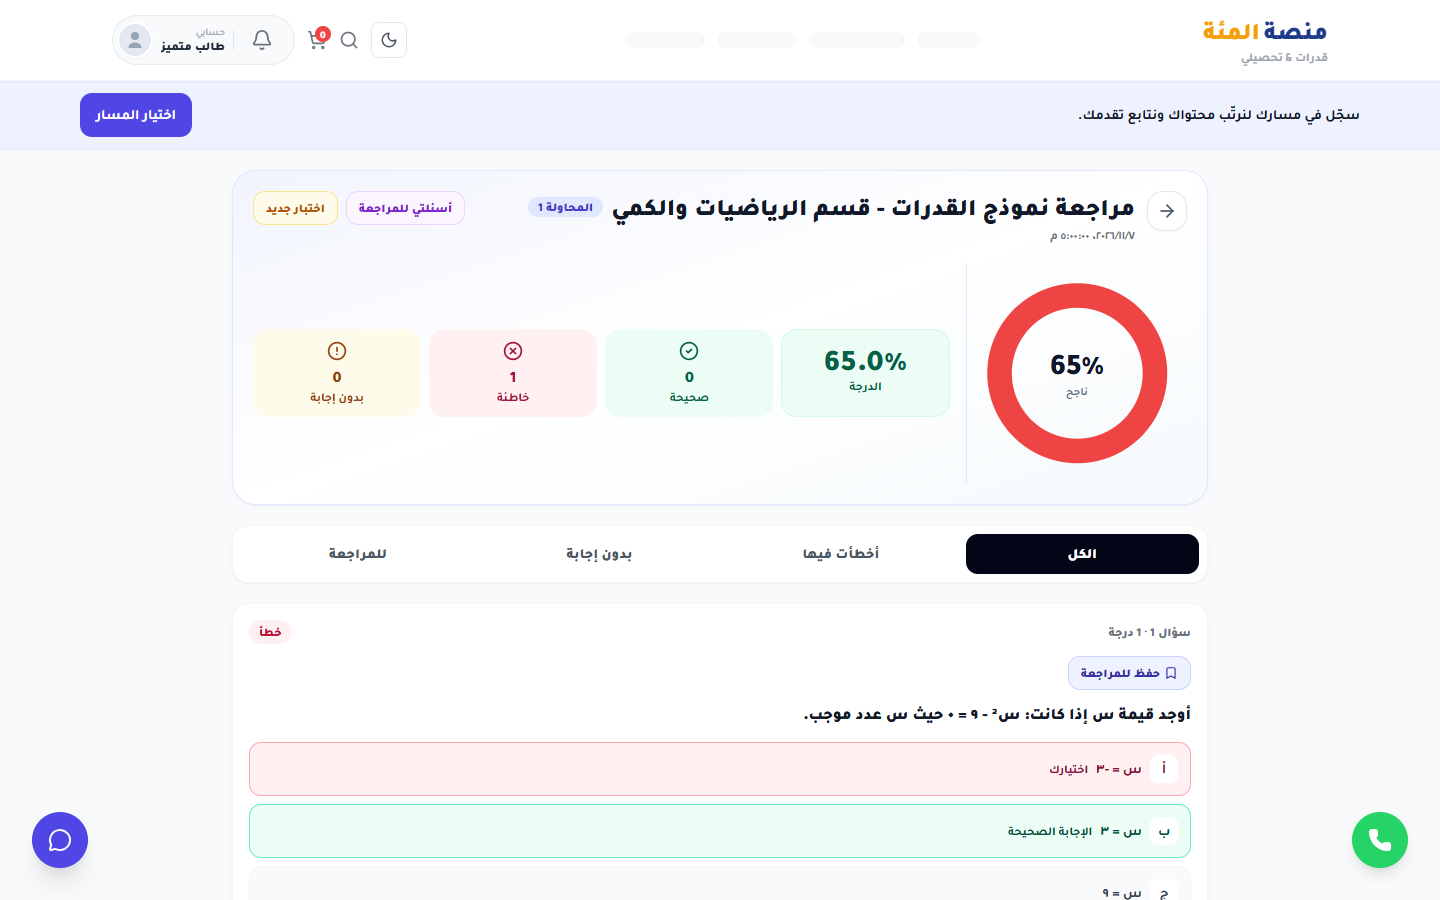
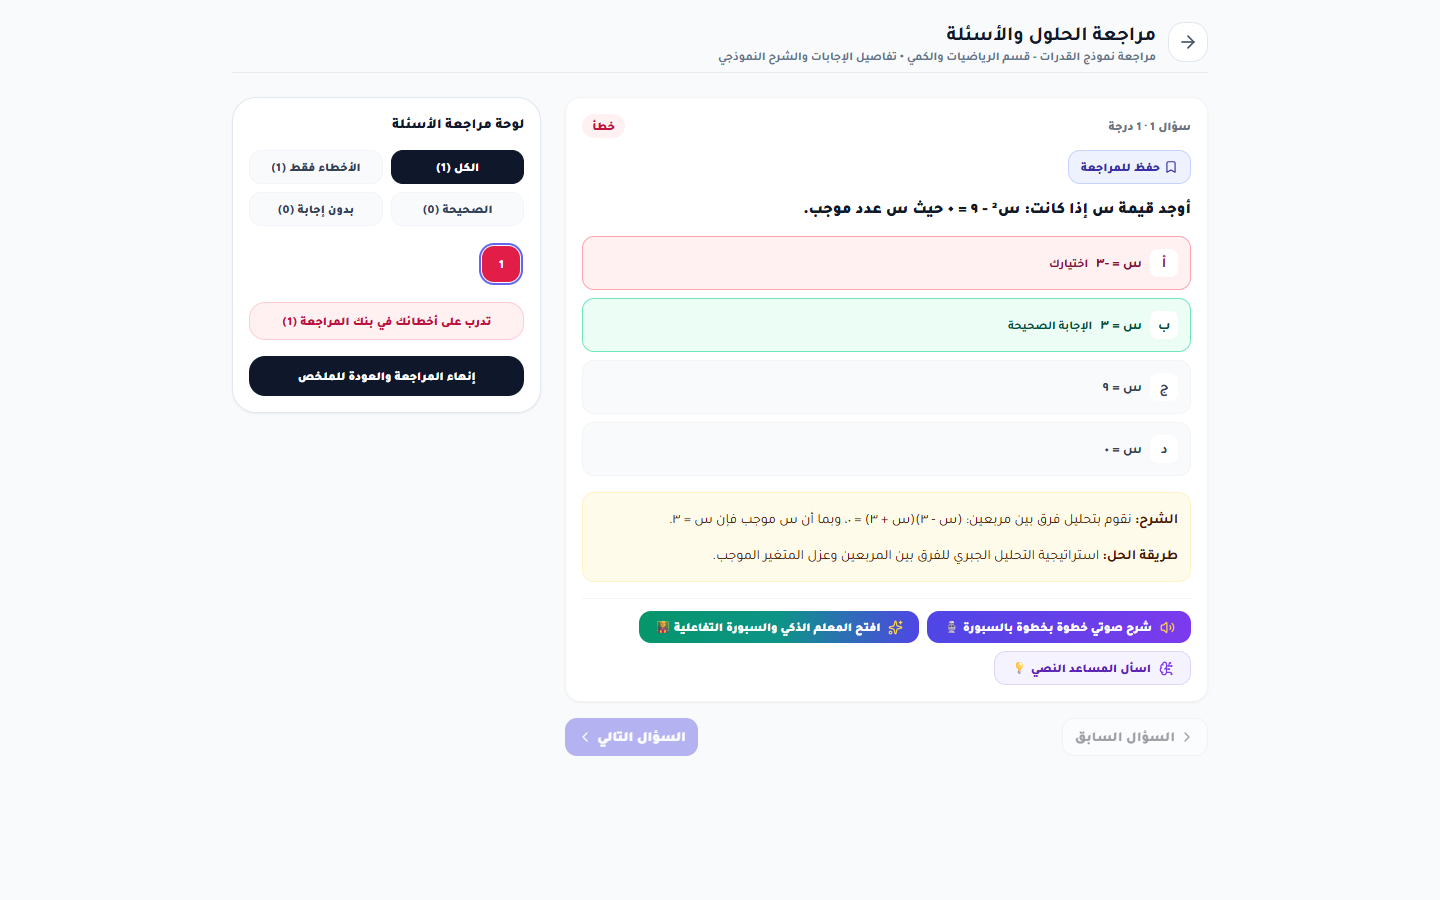
fix(assessment): preserve review heading semantics and advance global release sweep to review board

diff --git a/apps/web/src/features/assessment/pages/AssessmentResultsPage.tsx b/apps/web/src/features/assessment/pages/AssessmentResultsPage.tsx
@@ -566,7 +566,9 @@ export function AssessmentResultsPage({ embedded, resultAttemptId, hideReturnLin
       )}
       <div>
         <h1 className="text-xl font-bold">{reviewOpen && detail.showResultsReport ? 'مراجعة الحلول والأسئلة' : 'نتيجة الاختبار'}</h1>
-        {reviewOpen && detail.showResultsReport && <p className="text-xs font-bold text-slate-500">{detail.title} • تفاصيل الإجابات والشرح النموذجي</p>}
+        {reviewOpen && detail.showResultsReport && (
+          <h2 className="text-xs font-bold text-slate-500">{detail.title} • تفاصيل الإجابات والشرح النموذجي</h2>
+        )}
       </div>
       {returnTo && !hideReturnLink && <Link to={returnTo} className="rounded-xl border border-emerald-100 bg-emerald-50 px-3 py-2 text-xs font-black text-emerald-700">{returnPathLabel(returnTo)}</Link>}
     </div>

diff --git a/apps/web/tests/e2e/global-release-sweep.spec.ts b/apps/web/tests/e2e/global-release-sweep.spec.ts
@@ -74,6 +74,7 @@ test('student golden journey crosses content assessment result review remediatio
  await expect.poll(()=>submitCalls).toBe(1);
 
  await page.goto('/assessment-results/attempt-1');
+ await page.getByRole('button', { name: /^مراجعة الأسئلة/ }).click();
  await expect(page.getByText('الإجابة الصحيحة')).toBeVisible();
  await page.getByRole('button',{name:'حفظ للمراجعة'}).click();
  await expect(page.getByRole('button',{name:'تم الحفظ'})).toBeVisible();
